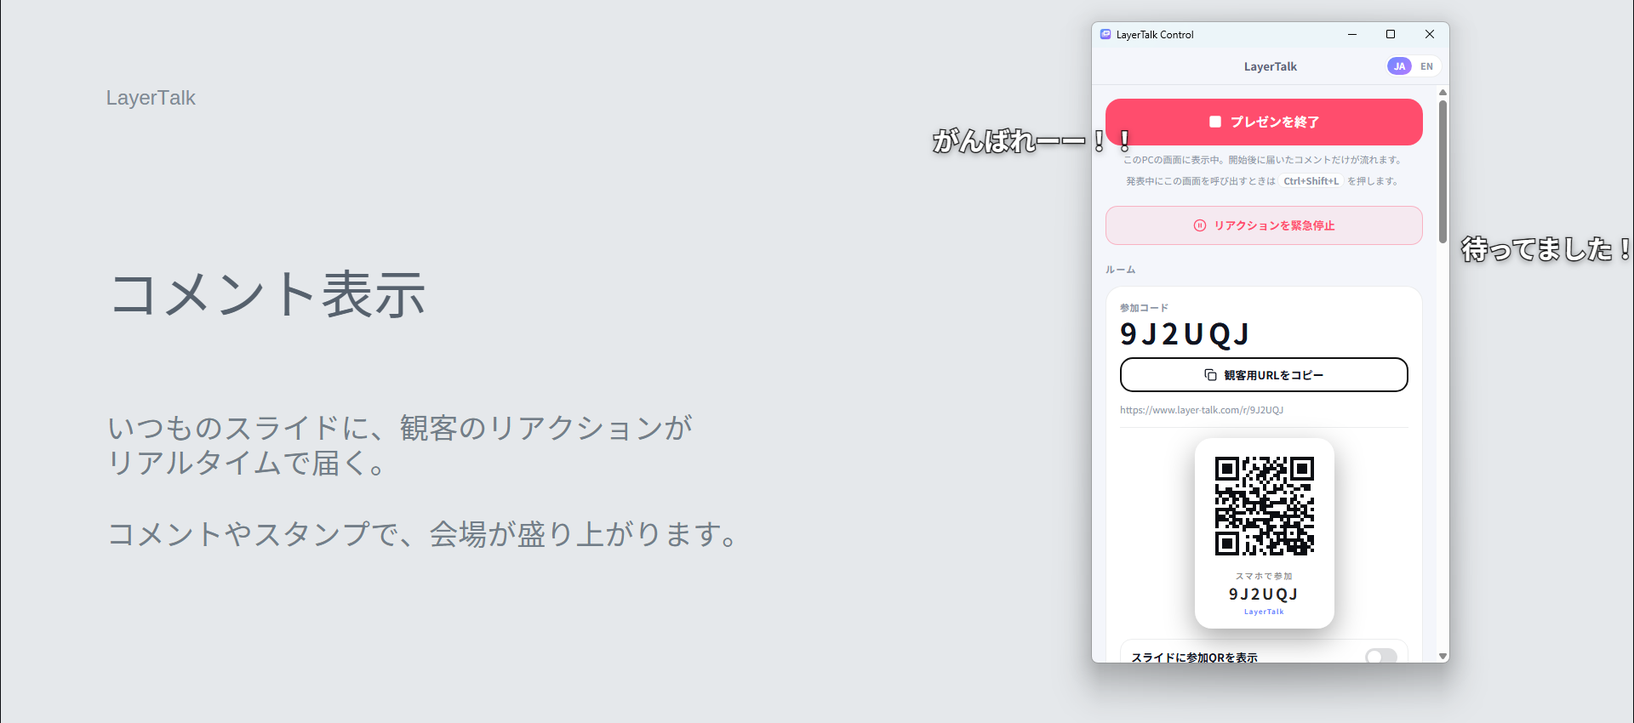
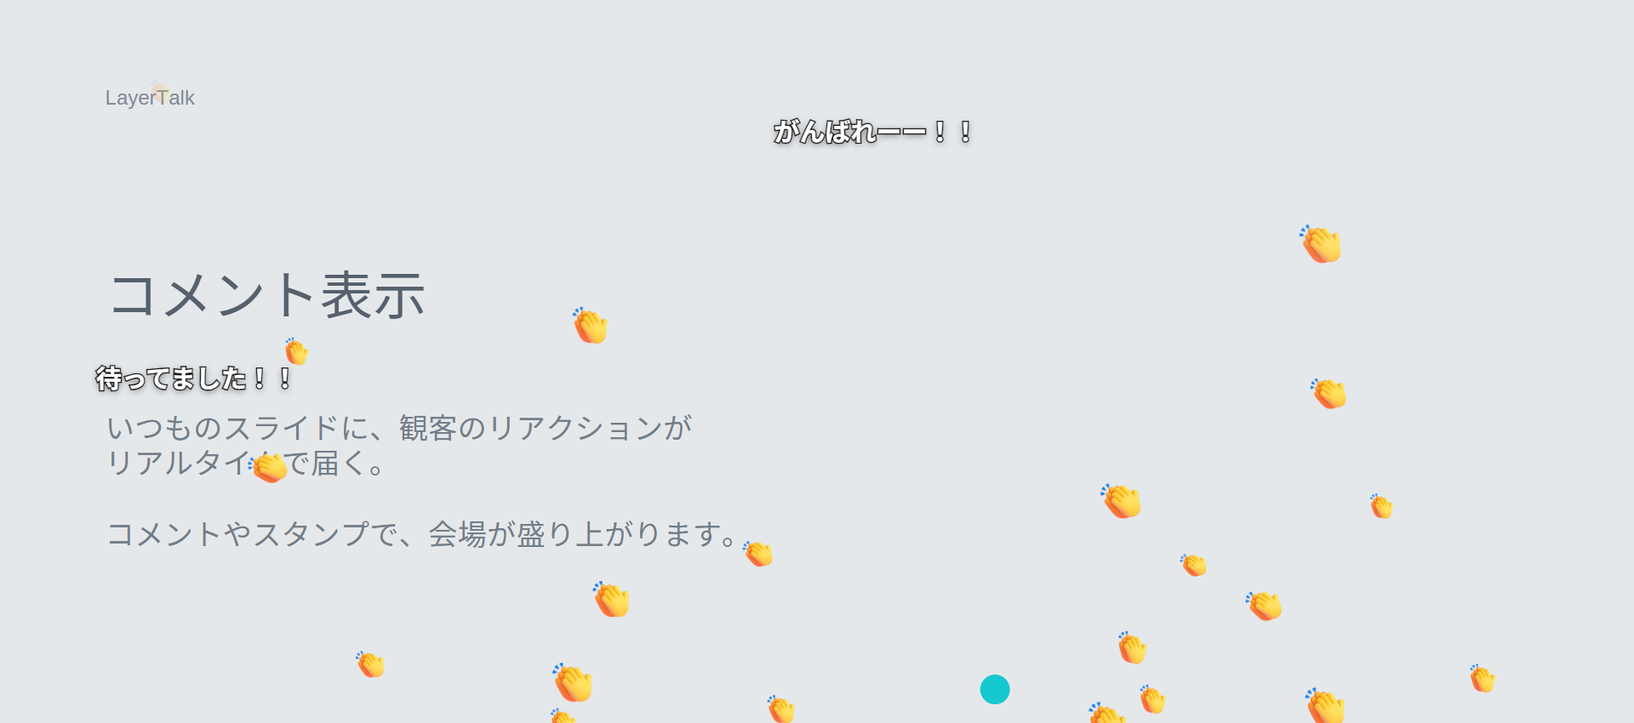
サイトを Windows 対応にし、ストアの導線を2つにする
Windows 版が Microsoft Store で公開されたので、サイト側を合わせる。

ブランチが直していたのは JSON-LD・法務ページ・ガイドの地の文だけで、
**画面に出る文言は macOS のまま**だった。このまま merge すると、同じページの
中で構造化データは Windows 対応と言い、見出しは macOS と言い、ボタンは全部
Mac App Store へ飛ぶ状態になっていた。guide-article はひとつのブロックの中で
「macOS・Windows用アプリです」と書いた3行下に Mac 専用ボタンを出していた。

- ストアのボタンを2つ並べる（`StoreButtons`）。**OS 判定はしない** — 判定が
  外れた人に相手 OS のボタンしか見えない状態を作らないため。ヘッダだけは
  ナビが詰まるので「アプリを入手」1つにして LP の `#get` へ送る
- `<title>`・meta description・ヒーローの説明文・動作環境の注記を両 OS に
- JSON-LD の `downloadUrl` を両ストアの配列に。`operatingSystem` が Windows を
  名乗っているのに Apple の URL しか無いのは、構造化データ自体の食い違いだった

法務ページは**チャネルを増やさない**。Windows 版は Microsoft Store の商取引
システムを使わず Stripe Checkout で売っている（ポリシー 10.8.1 で第三者決済
として申告済み）ので、既存の `stripe` チャネルの条件がそのまま正しい。
ただし呼び名が「直接配布版」のままだと Microsoft Store から入れた人には
事実と食い違うので、表示名だけ「Windows版・直接配布版」にした。

退行の形（機械可読だけ直して文言を忘れる）は型検査にもスナップショットにも
掛からないので、`landing.test.ts` に「読まれる文言が片方の OS だけを名乗って
いないこと」を足した。`seo.test.ts` には両ストアの URL を固定した。

スクリーンショットは `コメント表示_windows.png` を撮り直し（コントロール窓を
外してスタンプが流れる絵にした）。

diff --git a/apps/audience-web/src/content/legal/privacy.ts b/apps/audience-web/src/content/legal/privacy.ts
@@ -11,11 +11,11 @@ export function privacyContent(config: {
     effectiveDate: config.effectiveDate,
     updatedDate: config.updatedDate,
     sections: [
-      { id: "information", title: "1. 取得する情報", items: ["Presenterのメールアドレス、ユーザーIDおよび認証記録", "ルーム、設定、コメント、質問、スタンプ、発表レポート", "購入状態と、決済事業者が発行する識別子（直接配布版: Stripe Customer ID、Checkout Session ID、PaymentIntent ID／Mac App Store版: Appleが署名した取引情報、トランザクションID、商品ID）", "IPアドレス、端末・ブラウザ情報、アクセス時刻、エラーログ"] },
+      { id: "information", title: "1. 取得する情報", items: ["Presenterのメールアドレス、ユーザーIDおよび認証記録", "ルーム、設定、コメント、質問、スタンプ、発表レポート", "購入状態と、決済事業者が発行する識別子（Windows版・直接配布版: Stripe Customer ID、Checkout Session ID、PaymentIntent ID／Mac App Store版: Appleが署名した取引情報、トランザクションID、商品ID）", "IPアドレス、端末・ブラウザ情報、アクセス時刻、エラーログ"] },
       { id: "purpose", title: "2. 利用目的", items: ["本人認証とアカウント管理", "リアルタイムコメント、モデレーション、レポート等のサービス提供", "決済処理、購入確認、有料権利の付与と失効", "問い合わせ対応、不正利用の防止、障害調査とサービス改善", "法令上必要な記録の作成と保存"] },
-      { id: "payments", title: "3. 決済情報", paragraphs: ["直接配布版では、カード情報はStripeが直接収集します。Mac App Store版では、決済はAppleのApp Storeを通じて行われ、Appleが販売の当事者となります。いずれの場合もLayerTalkのサーバーはカード番号やセキュリティコードを取得・保持せず、決済結果と各事業者が発行する識別子だけを受け取ります。Mac App Store版では、Appleが署名した取引情報を検証のうえ保存します。"] },
+      { id: "payments", title: "3. 決済情報", paragraphs: ["Windows版と直接配布版では、カード情報はStripeが直接収集します。Mac App Store版では、決済はAppleのApp Storeを通じて行われ、Appleが販売の当事者となります。いずれの場合もLayerTalkのサーバーはカード番号やセキュリティコードを取得・保持せず、決済結果と各事業者が発行する識別子だけを受け取ります。Mac App Store版では、Appleが署名した取引情報を検証のうえ保存します。"] },
       { id: "screen-capture", title: "4. 発表スライドの画像（発表者アプリ）", paragraphs: ["「質問時のスライドを保存」を有効にした場合に限り、質問が届いた瞬間の発表用ディスプレイの画像を取得します。LayerTalk自身の表示とマウスカーソルは除外されます。画像は発表者の端末の中だけに保存され、LayerTalkのサーバーや第三者へ送信されることはありません。取得から30日が経過すると自動的に削除され、アプリの設定からいつでも無効にできます。"] },
-      { id: "providers", title: "5. 外部サービスと委託先", items: ["Apple: Mac App Store版の決済、返金、購入内容の検証", "Stripe: 直接配布版の決済、領収書、不正利用対策", "Supabase: 認証、データベース、リアルタイム配信、ストレージ、認証メール", "Cloudflare Turnstile: 不正なアクセスや自動化された操作の防止", "Vercel: Audience Webのホスティングと配信"] },
+      { id: "providers", title: "5. 外部サービスと委託先", items: ["Apple: Mac App Store版の決済、返金、購入内容の検証", "Stripe: Windows版・直接配布版の決済、領収書、不正利用対策", "Supabase: 認証、データベース、リアルタイム配信、ストレージ、認証メール", "Cloudflare Turnstile: 不正なアクセスや自動化された操作の防止", "Vercel: Audience Webのホスティングと配信"] },
       { id: "retention", title: "6. 保存期間", items: ["Freeのイベントデータ: 原則7日間", "Event Passのイベントデータ: 原則30日間", "決済、会計、不正対策、問い合わせ対応に必要な記録: 法令または正当な目的に応じた期間"] },
       { id: "sharing", title: "7. 第三者提供、委託、越境移転", paragraphs: ["法令に基づく場合を除き、本人の同意なく個人情報を第三者へ販売しません。上記の外部サービスへ処理を委託することがあり、そのサーバーが日本国外に所在する場合があります。委託先の安全管理措置を確認し、必要な契約上の保護を行います。"] },
       { id: "storage", title: "8. Cookieとローカルストレージ", paragraphs: ["認証状態、表示設定、ルーム情報、オフライン権利確認等のため、Cookieまたはブラウザ・アプリ内のローカルストレージを利用します。広告目的のCookieは使用していません。", "送信先を登録して自動送信を有効にした場合、発表開始時に参加URLと定型文を指定のSlackまたはMicrosoft Teamsへ、発表者の端末から直接送信します。テスト送信・手動再送も指定の送信先へ投稿します。Webhook URLと通知設定はアカウント・ルームごとに、発表者の端末の資格情報ストア（macOSはKeychain、WindowsはWindows資格情報マネージャー）に保存され、LayerTalkのサーバーへ送信・同期されません。自動送信をオフにして保存すると停止し、送信先を削除すると資格情報ストアの設定とURLも削除されます。投稿済みメッセージの保存・削除は各サービスと所属組織の設定に従います。"] },

diff --git a/apps/audience-web/src/content/legal/privacy.en.ts b/apps/audience-web/src/content/legal/privacy.en.ts
@@ -17,11 +17,11 @@ export function privacyContentEn(config: {
     effectiveDate: config.effectiveDate,
     updatedDate: config.updatedDate,
     sections: [
-      { id: "information", title: "1. Information we collect", items: ["Presenters’ email addresses, user IDs, and authentication records", "Rooms, settings, comments, questions, stamps, and presentation reports", "Purchase status and identifiers issued by payment providers (direct download version: Stripe Customer ID, Checkout Session ID, and PaymentIntent ID; Mac App Store version: Apple-signed transaction information, transaction IDs, and product IDs)", "IP addresses, device and browser information, access times, and error logs"] },
+      { id: "information", title: "1. Information we collect", items: ["Presenters’ email addresses, user IDs, and authentication records", "Rooms, settings, comments, questions, stamps, and presentation reports", "Purchase status and identifiers issued by payment providers (Windows and direct download versions: Stripe Customer ID, Checkout Session ID, and PaymentIntent ID; Mac App Store version: Apple-signed transaction information, transaction IDs, and product IDs)", "IP addresses, device and browser information, access times, and error logs"] },
       { id: "purpose", title: "2. How we use it", items: ["Authenticating users and managing accounts", "Providing the service, including real-time comments, moderation, and reports", "Processing payments, confirming purchases, and granting and expiring paid entitlements", "Responding to inquiries, preventing misuse, investigating failures, and improving the service", "Creating and keeping records required by law"] },
-      { id: "payments", title: "3. Payment information", paragraphs: ["In the direct download version, card details are collected directly by Stripe. In the Mac App Store version, payment is made through Apple’s App Store, and Apple is the seller. In either case, LayerTalk’s servers never obtain or store card numbers or security codes; they receive only the payment result and the identifiers issued by each provider. In the Mac App Store version, Apple-signed transaction information is verified and then stored."] },
+      { id: "payments", title: "3. Payment information", paragraphs: ["In the Windows and direct download versions, card details are collected directly by Stripe. In the Mac App Store version, payment is made through Apple’s App Store, and Apple is the seller. In either case, LayerTalk’s servers never obtain or store card numbers or security codes; they receive only the payment result and the identifiers issued by each provider. In the Mac App Store version, Apple-signed transaction information is verified and then stored."] },
       { id: "screen-capture", title: "4. Presentation slide images (presenter app)", paragraphs: ["Only when “Save slides when questions arrive” is turned on, LayerTalk captures an image of the presentation display at the moment a question arrives. LayerTalk’s own windows and the mouse cursor are excluded. Images are stored only on the presenter’s device and are never sent to LayerTalk’s servers or to third parties. They are deleted automatically 30 days after capture, and the feature can be turned off in the app at any time."] },
-      { id: "providers", title: "5. External services and processors", items: ["Apple: payments, refunds, and purchase verification for the Mac App Store version", "Stripe: payments, receipts, and fraud prevention for the direct download version", "Supabase: authentication, database, real-time delivery, storage, and authentication email", "Cloudflare Turnstile: preventing abusive access and automated operations", "Vercel: hosting and delivery of the audience web pages"] },
+      { id: "providers", title: "5. External services and processors", items: ["Apple: payments, refunds, and purchase verification for the Mac App Store version", "Stripe: payments, receipts, and fraud prevention for the Windows and direct download versions", "Supabase: authentication, database, real-time delivery, storage, and authentication email", "Cloudflare Turnstile: preventing abusive access and automated operations", "Vercel: hosting and delivery of the audience web pages"] },
       { id: "retention", title: "6. Retention periods", items: ["Event data for free use: generally 7 days", "Event data covered by an Event Pass: generally 30 days", "Records needed for payments, accounting, fraud prevention, and inquiries: for the period required by law or by a legitimate purpose"] },
       { id: "sharing", title: "7. Disclosure to third parties, processing, and international transfers", paragraphs: ["Except as required by law, LayerTalk does not sell personal information to third parties without consent. Processing may be entrusted to the external services listed above, whose servers may be located outside Japan. LayerTalk checks the security measures of these processors and puts the necessary contractual protections in place."] },
       { id: "storage", title: "8. Cookies and local storage", paragraphs: ["Cookies or local storage in the browser or app are used for authentication state, display settings, room information, offline entitlement checks, and similar purposes. Cookies are not used for advertising.", "When you register a destination and enable automatic sending, the presenter’s device sends the join URL and a fixed message directly to your selected Slack or Microsoft Teams destination on presentation start. Test messages and manual resends also post to the selected destination. Webhook URLs and notification settings are stored per account and room in the presenter’s device credential store (Keychain on macOS, Windows Credential Manager on Windows), and are never sent or synchronized to LayerTalk servers. Turn automatic sending off and save to stop it; deleting a destination removes its settings and URL from that credential store. Retention and deletion of posted messages follow the destination service and your organization settings."] },

diff --git a/apps/audience-web/src/app/event-pass/page.tsx b/apps/audience-web/src/app/event-pass/page.tsx
@@ -2,7 +2,7 @@ import type { Metadata } from "next";
 import Link from "next/link";
 import { ArrowDown, Check, FileDown, KeyRound, ShieldCheck, Sparkles } from "lucide-react";
 
-import { AppStoreButton } from "@/components/public/app-store-button";
+import { StoreButtons } from "@/components/public/store-buttons";
 import { PhraseText, ProtectedText } from "@/components/public/phrase-text";
 import { PublicShell } from "@/components/public/public-shell";
 import { createEventPassStructuredData, createPageMetadata, serializeJsonLd } from "@/lib/seo";
@@ -47,7 +47,7 @@ export default function EventPassPage() {
               <wbr /><span className="text-brand lt-nowrap">1イベント用</span><wbr /><span className="lt-nowrap">パス</span>
             </h1>
             <div className="mt-8 flex flex-wrap items-end gap-x-5 gap-y-2">
-              <p className="lt-nowrap"><span className="lt-num text-[32px] font-bold tracking-[-0.04em]">2,980円</span><span className="text-text-muted ml-2 text-[12px]">税込・直接配布版</span></p>
+              <p className="lt-nowrap"><span className="lt-num text-[32px] font-bold tracking-[-0.04em]">2,980円</span><span className="text-text-muted ml-2 text-[12px]">税込・Windows版・直接配布版</span></p>
               <p className="lt-nowrap text-text-muted pb-1 text-[13px]">購入した1ルームで7日間</p>
             </div>
             <a href="#how-to-buy" className="lt-tap lt-nowrap bg-gradient-brand shadow-glow mt-8 inline-flex min-h-12 items-center gap-2 rounded-control px-5 text-[14px] font-bold text-white transition-transform active:scale-[.94]">
@@ -108,7 +108,7 @@ export default function EventPassPage() {
           <div id="how-to-buy" className="scroll-mt-24">
             <h2 className="text-[24px] font-bold tracking-[-.035em]">購入方法</h2>
             {/* 手順の1つ目より前に、まずアプリが要る。 */}
-            <AppStoreButton variant="secondary" className="mt-5 inline-flex" />
+            <div className="mt-5 flex flex-wrap gap-3"><StoreButtons /></div>
             <ol className="mt-6 space-y-3">
               {steps.map((step, index) => <li key={step} className="border-border flex items-center gap-4 border-b pb-3"><span className="lt-num text-brand text-[11px] font-bold">{String(index + 1).padStart(2, "0")}</span><span className="text-[13px] font-semibold"><ProtectedText text={step} terms={[step]} /></span></li>)}
             </ol>
@@ -120,10 +120,10 @@ export default function EventPassPage() {
             <h2 className="text-[18px] font-bold">決済前にご確認ください</h2>
             {/* 決済手段は配布チャネルで違う。このページは App Store のマーケティング URL からも辿られるので、
                 片方（Stripe）だけを「決済方法」として書かない。 */}
-            <p className="text-text-muted mt-3 text-[13px] leading-6"><ProtectedText text="お支払いは、Mac App Store版ではApp Store、直接配布版ではStripeを通じて行います。どちらの場合も、カード情報をLayerTalkが保持することはありません。購入前に、お使いの版の返金条件と各文書をご確認ください。" terms={["Mac App Store版", "App Store", "直接配布版"]} /></p>
+            <p className="text-text-muted mt-3 text-[13px] leading-6"><ProtectedText text="お支払いは、Mac App Store版ではApp Store、Windows版と直接配布版ではStripeを通じて行います。どちらの場合も、カード情報をLayerTalkが保持することはありません。購入前に、お使いの版の返金条件と各文書をご確認ください。" terms={["Mac App Store版", "App Store", "Windows版", "直接配布版"]} /></p>
             <dl className="mt-5 grid gap-3 text-[12px] font-semibold">
               <div className="flex flex-wrap items-baseline gap-x-5 gap-y-2"><dt className="lt-nowrap text-text-faint w-full text-[11px] sm:w-auto">Mac App Store版</dt><dd className="flex flex-wrap gap-x-5 gap-y-2"><Link className="lt-nowrap text-brand" href="/support?channel=app-store#refunds">返金について</Link><Link className="lt-nowrap" href="/legal/terms?channel=app-store">利用規約</Link><Link className="lt-nowrap" href="/legal/tokusho?channel=app-store">特定商取引法に基づく表記</Link></dd></div>
-              <div className="flex flex-wrap items-baseline gap-x-5 gap-y-2"><dt className="lt-nowrap text-text-faint w-full text-[11px] sm:w-auto">直接配布版</dt><dd className="flex flex-wrap gap-x-5 gap-y-2"><Link className="lt-nowrap text-brand" href="/support#refunds">返金・キャンセル条件</Link><Link className="lt-nowrap" href="/legal/terms">利用規約</Link><Link className="lt-nowrap" href="/legal/tokusho">特定商取引法に基づく表記</Link></dd></div>
+              <div className="flex flex-wrap items-baseline gap-x-5 gap-y-2"><dt className="lt-nowrap text-text-faint w-full text-[11px] sm:w-auto">Windows版・直接配布版</dt><dd className="flex flex-wrap gap-x-5 gap-y-2"><Link className="lt-nowrap text-brand" href="/support#refunds">返金・キャンセル条件</Link><Link className="lt-nowrap" href="/legal/terms">利用規約</Link><Link className="lt-nowrap" href="/legal/tokusho">特定商取引法に基づく表記</Link></dd></div>
               <div className="flex flex-wrap items-baseline gap-x-5 gap-y-2"><dt className="lt-nowrap text-text-faint w-full text-[11px] sm:w-auto">共通</dt><dd><Link className="lt-nowrap" href="/legal/privacy">プライバシーポリシー</Link></dd></div>
             </dl>
           </div>

diff --git a/apps/audience-web/src/i18n/ja.ts b/apps/audience-web/src/i18n/ja.ts
@@ -8,11 +8,13 @@
 export const ja = {
   meta: {
     // title は検索結果でいちばん効くので、キャッチコピーではなく検索される語（コメント・質問・流す・Mac・
-    // プレゼン）を入れる。キャッチコピー「会場の声を、スライドの上へ。」は LP の H1 が持っている。
+    // Windows・プレゼン）を入れる。キャッチコピー「会場の声を、スライドの上へ。」は LP の H1 が持っている。
+    // **Windows は 2026-10 のストア公開に合わせて足した。** 「Windows プレゼン」で探す人を取りこぼさない
+    // ため。OS 名を消して短くする案もあったが、「Mac」は実際に効いている検索語なので残す。
     // 狙う検索語: 「プレゼン 盛り上げる」「LT 盛り上げる」「発表 盛り上げる」「スライド コメント 流す」。
     // 方法を探す検索は解説記事（/guides）が受け、LP は製品名と機能の検索を受ける。
-    title: "LayerTalk | プレゼン・LTを盛り上げる、スライドにコメントを流すMacアプリ",
-    description: "プレゼンやLT、会議を盛り上げるMac用アプリ。発表中のスライドに、観客のコメント・質問・スタンプをリアルタイムで流せます。観客はQRか6文字コードで参加、アプリも登録も不要。PowerPoint・Keynote・Canvaなどそのまま使えます。",
+    title: "LayerTalk | プレゼン・LTを盛り上げる、スライドにコメントを流すMac・Windowsアプリ",
+    description: "プレゼンやLT、会議を盛り上げるMac・Windows用アプリ。発表中のスライドに、観客のコメント・質問・スタンプをリアルタイムで流せます。観客はQRか6文字コードで参加、アプリも登録も不要。PowerPoint・Keynote・Canvaなどそのまま使えます。",
     keywords: ["プレゼンテーション", "リアルタイムコメント", "質疑応答", "観客参加", "イベント運営", "スライドオーバーレイ"],
   },
 
@@ -41,11 +43,19 @@ export const ja = {
       label: "サイト情報・法務・サポート",
       copyright: "© 2026 LayerTalk",
     },
-    /** 発表者アプリ（Mac App Store）への入口。LP・ヘッダ・Event Pass ページで使う。 */
+    /**
+     * 発表者アプリへの入口。LP・ヘッダ・ガイド末尾で使う。
+     *
+     * **ストアは2つある。** OS 判定はせず両方並べる（`StoreButtons`）。
+     * `compact` はヘッダ専用で、ストアへ直接飛ばさず LP の導線（`/#get`）へ送る
+     * — ナビにボタンを2つ置くと詰まるため。
+     * キー名が `appStore` のままなのは、改名すると4ファイルに波及するから。
+     */
     appStore: {
-      cta: "Mac App Storeで入手",
+      apple: "Mac App Storeで入手",
+      microsoft: "Microsoft Storeで入手",
       compact: "アプリを入手",
-      note: "macOS 13以降・無料でダウンロード",
+      note: "macOS 13以降 ／ Windows 10 バージョン2004以降・無料でダウンロード",
     },
     /** 法務ページの見出し。英語版は `?lang=en`（`content/legal/locale.ts`）。 */
     legal: {
@@ -66,7 +76,7 @@ export const ja = {
     eyebrow: "Live audience, on your slides",
     titleLead: "会場の声を、",
     titleHighlight: "スライドの上へ。",
-    description: "LayerTalkは、観客のコメント・質問・スタンプをプレゼン画面へリアルタイムに重ねる、macOS向けの参加型プレゼンツールです。",
+    description: "LayerTalkは、観客のコメント・質問・スタンプをプレゼン画面へリアルタイムに重ねる、macOS・Windows向けの参加型プレゼンツールです。",
     secondaryCta: "参加コードを入力",
     signals: ["観客アプリ不要", "QR・6文字コードで参加", "観客数の制限なし"],
     stage: {

diff --git a/apps/audience-web/src/components/public/store-buttons.tsx b/apps/audience-web/src/components/public/store-buttons.tsx
@@ -1,0 +1,82 @@
+import { Download } from "lucide-react";
+
+import type { Locale } from "@layertalk/shared/i18n";
+
+import { messages } from "@/i18n";
+import { APP_STORE_URL, MICROSOFT_STORE_URL } from "@/lib/seo";
+import type { PublicAppearance } from "./appearance";
+import styles from "./mascot-public.module.css";
+
+const variantClass = {
+  primary: "bg-gradient-brand shadow-glow min-h-12 px-5 text-[14px] text-white",
+  secondary: "border-border bg-surface hover:bg-surface-strong min-h-12 border px-5 text-[14px] transition-colors",
+  compact: "border-border bg-surface hover:bg-surface-strong min-h-9 border px-3 text-[12px] transition-colors",
+} as const;
+
+type Store = "apple" | "microsoft";
+
+const STORE_URL: Record<Store, string> = {
+  apple: APP_STORE_URL,
+  microsoft: MICROSOFT_STORE_URL,
+};
+
+/**
+ * 発表者アプリのストアへの外部リンク。Apple / Microsoft の公式バッジ素材は使わない。
+ *
+ * **OS 判定はしない。** User-Agent で出し分けると、判定が外れた人に相手 OS のボタンしか
+ * 見えない状態を作る。両方出して選ばせる方が壊れようが無い（`StoreButtons`）。
+ */
+export function StoreButton({
+  store,
+  locale = "ja",
+  variant = "primary",
+  appearance = "default",
+  // display はここで決める（base に inline-flex を置くと hidden と衝突する）。
+  className = "inline-flex",
+}: {
+  store: Store;
+  locale?: Locale;
+  variant?: keyof typeof variantClass;
+  appearance?: PublicAppearance;
+  className?: string;
+}) {
+  const t = messages[locale].public.appStore;
+  const mascot = appearance === "mascot";
+  const look = mascot ? (variant === "primary" ? styles.primaryButton : variant === "compact" ? styles.compactButton : styles.secondaryButton) : variantClass[variant];
+
+  return (
+    <a
+      href={STORE_URL[store]}
+      target="_blank"
+      rel="noopener noreferrer"
+      className={`lt-tap lt-nowrap items-center justify-center gap-2 ${mascot ? "" : "rounded-control font-bold"} ${look} ${className}`}
+    >
+      <Download size={variant === "compact" ? 14 : 16} aria-hidden="true" />
+      {store === "apple" ? t.apple : t.microsoft}
+    </a>
+  );
+}
+
+/**
+ * 2つのストアを並べる。配っているのは同じアプリなので、片方を一次・もう片方を
+ * 二次にはしない（`primary` / `secondary` の塗り分けはしているが、これは2つ続けて
+ * 同じ塗りが並ぶのを避けるためだけ）。
+ *
+ * 置き場所は `.actions`（`home.module.css`）で、`flex-wrap` なので狭い画面では折り返す。
+ */
+export function StoreButtons({
+  locale = "ja",
+  appearance = "default",
+  className = "",
+}: {
+  locale?: Locale;
+  appearance?: PublicAppearance;
+  className?: string;
+}) {
+  return (
+    <>
+      <StoreButton store="apple" locale={locale} variant="primary" appearance={appearance} className={`inline-flex ${className}`} />
+      <StoreButton store="microsoft" locale={locale} variant="secondary" appearance={appearance} className={`inline-flex ${className}`} />
+    </>
+  );
+}

diff --git a/apps/audience-web/src/app/page.tsx b/apps/audience-web/src/app/page.tsx
@@ -3,7 +3,7 @@ import Link from "next/link";
 import { BadgeHelp, Check, Import, MessageCircleMore, MonitorPlay, MonitorUp, PartyPopper, Puzzle, QrCode, Radio } from "lucide-react";
 
 import { JoinForm } from "@/components/join-form";
-import { AppStoreButton } from "@/components/public/app-store-button";
+import { StoreButtons } from "@/components/public/store-buttons";
 import { GuideCards } from "@/components/public/guide-cards";
 import { LiveSlideDemo } from "@/components/public/live-slide-demo";
 import { Mascot } from "@/components/public/mascot";
@@ -45,8 +45,9 @@ export default async function HomePage() {
               <span className={styles.titleLine}>{locale === "ja" ? <PhraseText phrases={["スライド", "の上へ。"]} /> : t.titleHighlight}</span>
             </h1>
             <p className={styles.description}><ProtectedText text={t.description} /></p>
-            <div className={styles.actions}>
-              <AppStoreButton locale={locale} appearance="mascot" />
+            {/* ヘッダの「アプリを入手」がここへ飛ぶ。id を外すとあのリンクが行き先を失う。 */}
+            <div id="get" className={styles.actions}>
+              <StoreButtons locale={locale} appearance="mascot" />
               <Link href="/#join" className={"lt-tap lt-nowrap inline-flex items-center justify-center " + publicStyles.secondaryButton}>{t.secondaryCta}</Link>
             </div>
             <p className={styles.note}>{messages[locale].public.appStore.note}</p>
@@ -171,7 +172,7 @@ export default async function HomePage() {
           <div>
             <h2 className={styles.heading}>{locale === "ja" ? <PhraseText phrases={["次の発表を、", "会場との対話に", "変える。"]} /> : t.finalCta.title}</h2>
             <div className={styles.actions}>
-              <AppStoreButton locale={locale} appearance="mascot" />
+              <StoreButtons locale={locale} appearance="mascot" />
               <Link href="/#join" className={"lt-tap lt-nowrap inline-flex items-center justify-center " + publicStyles.secondaryButton}>{t.finalCta.audience}</Link>
             </div>
           </div>

diff --git a/apps/audience-web/src/i18n/en.ts b/apps/audience-web/src/i18n/en.ts
@@ -6,8 +6,8 @@ import type { Messages } from "./index";
  */
 export const en: Messages = {
   meta: {
-    title: "LayerTalk | Live audience comments and Q&A on your slides, for Mac",
-    description: "A Mac app that shows audience comments, questions, and reactions over your presentation slides in real time. The audience joins with a QR or 6-character code, no app or sign-up needed. Works with PowerPoint, Keynote, Canva, and more.",
+    title: "LayerTalk | Live audience comments and Q&A on your slides, for Mac and Windows",
+    description: "A Mac and Windows app that shows audience comments, questions, and reactions over your presentation slides in real time. The audience joins with a QR or 6-character code, no app or sign-up needed. Works with PowerPoint, Keynote, Canva, and more.",
     keywords: ["presentation software", "live audience engagement", "Q&A", "real-time comments", "event presentation", "slide overlay"],
   },
 
@@ -37,9 +37,10 @@ export const en: Messages = {
       copyright: "© 2026 LayerTalk",
     },
     appStore: {
-      cta: "Download on the Mac App Store",
+      apple: "Download on the Mac App Store",
+      microsoft: "Get it from the Microsoft Store",
       compact: "Get the app",
-      note: "macOS 13 or later · Free download",
+      note: "macOS 13 or later / Windows 10 version 2004 or later · Free download",
     },
     legal: {
       eyebrow: "LayerTalk legal",
@@ -59,7 +60,7 @@ export const en: Messages = {
     eyebrow: "Live audience, on your slides",
     titleLead: "Bring the room ",
     titleHighlight: "onto your slides.",
-    description: "LayerTalk is a participatory presentation tool for macOS that puts audience comments, questions, and reactions directly over your slides in real time.",
+    description: "LayerTalk is a participatory presentation tool for macOS and Windows that puts audience comments, questions, and reactions directly over your slides in real time.",
     secondaryCta: "Enter a join code",
     signals: ["No audience app", "Join by QR or 6-character code", "No audience limit"],
     stage: {

diff --git a/apps/audience-web/src/components/public/public-header.tsx b/apps/audience-web/src/components/public/public-header.tsx
@@ -1,9 +1,9 @@
+import { Download } from "lucide-react";
 import Image from "next/image";
 import Link from "next/link";
 
 import type { Locale } from "@layertalk/shared/i18n";
 
-import { AppStoreButton } from "@/components/public/app-store-button";
 import { messages } from "@/i18n";
 
 import layerTalkMark from "./layertalk-mark.png";
@@ -25,7 +25,11 @@ export function PublicHeader({ locale = "ja", appearance = "default" }: { locale
           <Link href="/#features" className="lt-nowrap text-text-muted hover:text-text hidden rounded-control px-2.5 py-2 text-[12px] font-semibold transition-colors md:inline-flex">{nav.features}</Link>
           <Link href="/#how-it-works" className="lt-nowrap text-text-muted hover:text-text hidden rounded-control px-2.5 py-2 text-[12px] font-semibold transition-colors md:inline-flex">{nav.howItWorks}</Link>
           <Link href="/event-pass" className="lt-nowrap text-text-muted hover:text-text rounded-control px-2.5 py-2 text-[12px] font-semibold transition-colors">{nav.eventPass}</Link>
-          <AppStoreButton locale={locale} variant="compact" appearance={appearance} className="hidden sm:inline-flex" />
+          {/* ナビは既に詰まっているので、ここだけはストアを2つ並べない。LP の導線（`/#get`）へ送る。 */}
+          <Link href="/#get" className={`lt-tap lt-nowrap hidden items-center gap-2 sm:inline-flex ${mascot ? styles.compactButton : "border-border bg-surface hover:bg-surface-strong min-h-9 rounded-control border px-3 text-[12px] font-bold transition-colors"}`}>
+            <Download size={14} aria-hidden="true" />
+            {messages[locale].public.appStore.compact}
+          </Link>
           <Link href="/#join" className={`lt-tap lt-nowrap inline-flex items-center ${mascot ? styles.compactButton : "border-border bg-surface hover:bg-surface-strong min-h-9 rounded-control border px-3 text-[12px] font-bold transition-colors"}`}>{nav.join}</Link>
         </nav>
       </div>

diff --git a/apps/audience-web/src/i18n/landing.test.ts b/apps/audience-web/src/i18n/landing.test.ts
@@ -5,6 +5,33 @@ import { messages } from "./index";
 const locales = ["ja", "en"] as const;
 
 describe("landing copy", () => {
+  /**
+   * 2026-10 の Windows 対応では、JSON-LD と法務ページだけ両 OS に直して
+   * **画面に出る文言を macOS のまま残した**。同じページの中で機械可読な部分と
+   * 見出しが食い違い、ボタンは全部 Mac App Store へ飛ぶ状態になっていた。
+   * 型検査もスナップショットも拾えないので、ここで見る。
+   */
+  it("never claims a single platform in the copy the visitor actually reads", () => {
+    for (const locale of locales) {
+      const m = messages[locale];
+      const visible = [m.meta.title, m.meta.description, m.landing.description, m.public.appStore.note];
+      for (const text of visible) {
+        // 「Mac」を名乗るなら「Windows」も名乗っていること（逆も同じ）。
+        const mac = /mac/i.test(text);
+        const windows = /windows/i.test(text);
+        expect(mac, `${locale}: ${text}`).toBe(windows);
+      }
+    }
+  });
+
+  it("offers both stores, not just one", () => {
+    for (const locale of locales) {
+      const { apple, microsoft } = messages[locale].public.appStore;
+      expect(apple).toMatch(/app store/i);
+      expect(microsoft).toMatch(/microsoft store/i);
+    }
+  });
+
   // page.tsx は featureIcons / worksWithIcons / stepIcons を添字で引く。
   // カタログ側に4件目を足すと `undefined!` を描画してページごと落ちる。
   it("keeps every icon-backed list at three items in both locales", () => {

diff --git a/apps/audience-web/src/lib/seo.ts b/apps/audience-web/src/lib/seo.ts
@@ -7,6 +7,13 @@ import { GUIDES_PATH, GUIDES_TITLE } from "@/content/guides";
 export const SITE_NAME = "LayerTalk";
 export const DEFAULT_SITE_URL = "https://www.layer-talk.com";
 export const APP_STORE_URL = "https://apps.apple.com/app/layertalk/id6814319511";
+/**
+ * Windows 版の掲載。**`?hl=…&gl=…` は付けない** — 同じ定数を英語ロケールでも使うので、
+ * 表示言語はストア側に訪問者で決めさせる。製品 ID は Partner Center 発行の `9NGK6GX4P2XF`。
+ *
+ * **ここは env ではなく定数。** 変えたら Vercel の再デプロイで反映される。
+ */
+export const MICROSOFT_STORE_URL = "https://apps.microsoft.com/detail/9ngk6gx4p2xf";
 export const SOCIAL_IMAGE_ALT = "LayerTalk — Bring the room onto your slides";
 
 const openGraphLocale: Record<Locale, string> = {
@@ -142,7 +149,9 @@ export function createHomeStructuredData({
         applicationCategory: "BusinessApplication",
         applicationSubCategory: "Presentation software",
         operatingSystem: "macOS 13 or later, Windows 10 version 2004 or later",
-        downloadUrl: APP_STORE_URL,
+        // 両方挙げる。`operatingSystem` が Windows を名乗っているのに Apple の URL しか
+        // 無いと、構造化データ自体が食い違う。
+        downloadUrl: [APP_STORE_URL, MICROSOFT_STORE_URL],
         softwareRequirements:
           locale === "ja"
             ? "発表者はmacOS 13以降またはWindows 10 バージョン2004以降、観客は最新の主要ブラウザとインターネット接続が必要です。"

diff --git a/apps/audience-web/src/components/public/guide-article.tsx b/apps/audience-web/src/components/public/guide-article.tsx
@@ -3,7 +3,7 @@ import Link from "next/link";
 import { GUIDES_PATH, GUIDES_TITLE, guidePath, guides, type GuideArticle as GuideArticleContent } from "@/content/guides";
 import { messages } from "@/i18n";
 
-import { AppStoreButton } from "./app-store-button";
+import { StoreButtons } from "./store-buttons";
 import { ProtectedText } from "./phrase-text";
 
 /** 解説記事（日本語のみ）。見た目は `LegalDocument` と揃え、末尾にアプリへの導線と関連記事を置く。 */
@@ -54,7 +54,7 @@ export function GuideArticle({ guide }: { guide: GuideArticleContent }) {
           {text("LayerTalkは、観客のコメント・質問・スタンプを発表中のスライドへリアルタイムに重ねるmacOS・Windows用アプリです。観客はQRコードか6文字コードで参加でき、アプリも登録も要りません。")}
         </p>
         <div className="mt-6 flex flex-col gap-3 sm:flex-row">
-          <AppStoreButton />
+          <StoreButtons />
           <Link href="/" className="lt-tap lt-nowrap border-border bg-surface hover:bg-surface-strong inline-flex min-h-12 items-center justify-center rounded-control border px-5 text-[14px] font-bold transition-colors">
             LayerTalkについて
           </Link>

diff --git a/apps/audience-web/src/content/legal/channel.ts b/apps/audience-web/src/content/legal/channel.ts
@@ -2,7 +2,14 @@
  * どの販売経路の条件を表示するか。
  *
  * LayerTalk は同じ法務ページを2つの配布チャネルから開かせている:
- * 直接配布版（Stripe Checkout）と Mac App Store 版（App Store 決済）。
+ * Stripe Checkout 版と Mac App Store 版（App Store 決済）。
+ *
+ * **Windows 版は Microsoft Store で配っているが、チャネルは `stripe` に落ちる。**
+ * Store の商取引システムを使わず Stripe Checkout で売っているため（ポリシー 10.8.1 で
+ * 第三者決済として申告済み。`scripts/build-msix.ps1` が `LAYERTALK_DISTRIBUTION_CHANNEL=mas`
+ * を弾いて direct=Stripe に固定している）。**チャネルを増やさないこと。**
+ * 画面の呼び名だけ「Windows版・直接配布版」にしてある — Microsoft Store から入れた人に
+ * 「直接配布版」とだけ書くと事実と食い違うため。
  * 支払方法・返金の窓口・価格の決まり方がまるごと違うので、Stripe 前提の文面を
  * App Store 版のアプリ内から開かせると、**別の決済手段の販売条件へ誘導している**
  * 形になり App Store 3.1.1 の指摘対象になる。価格も食い違う
